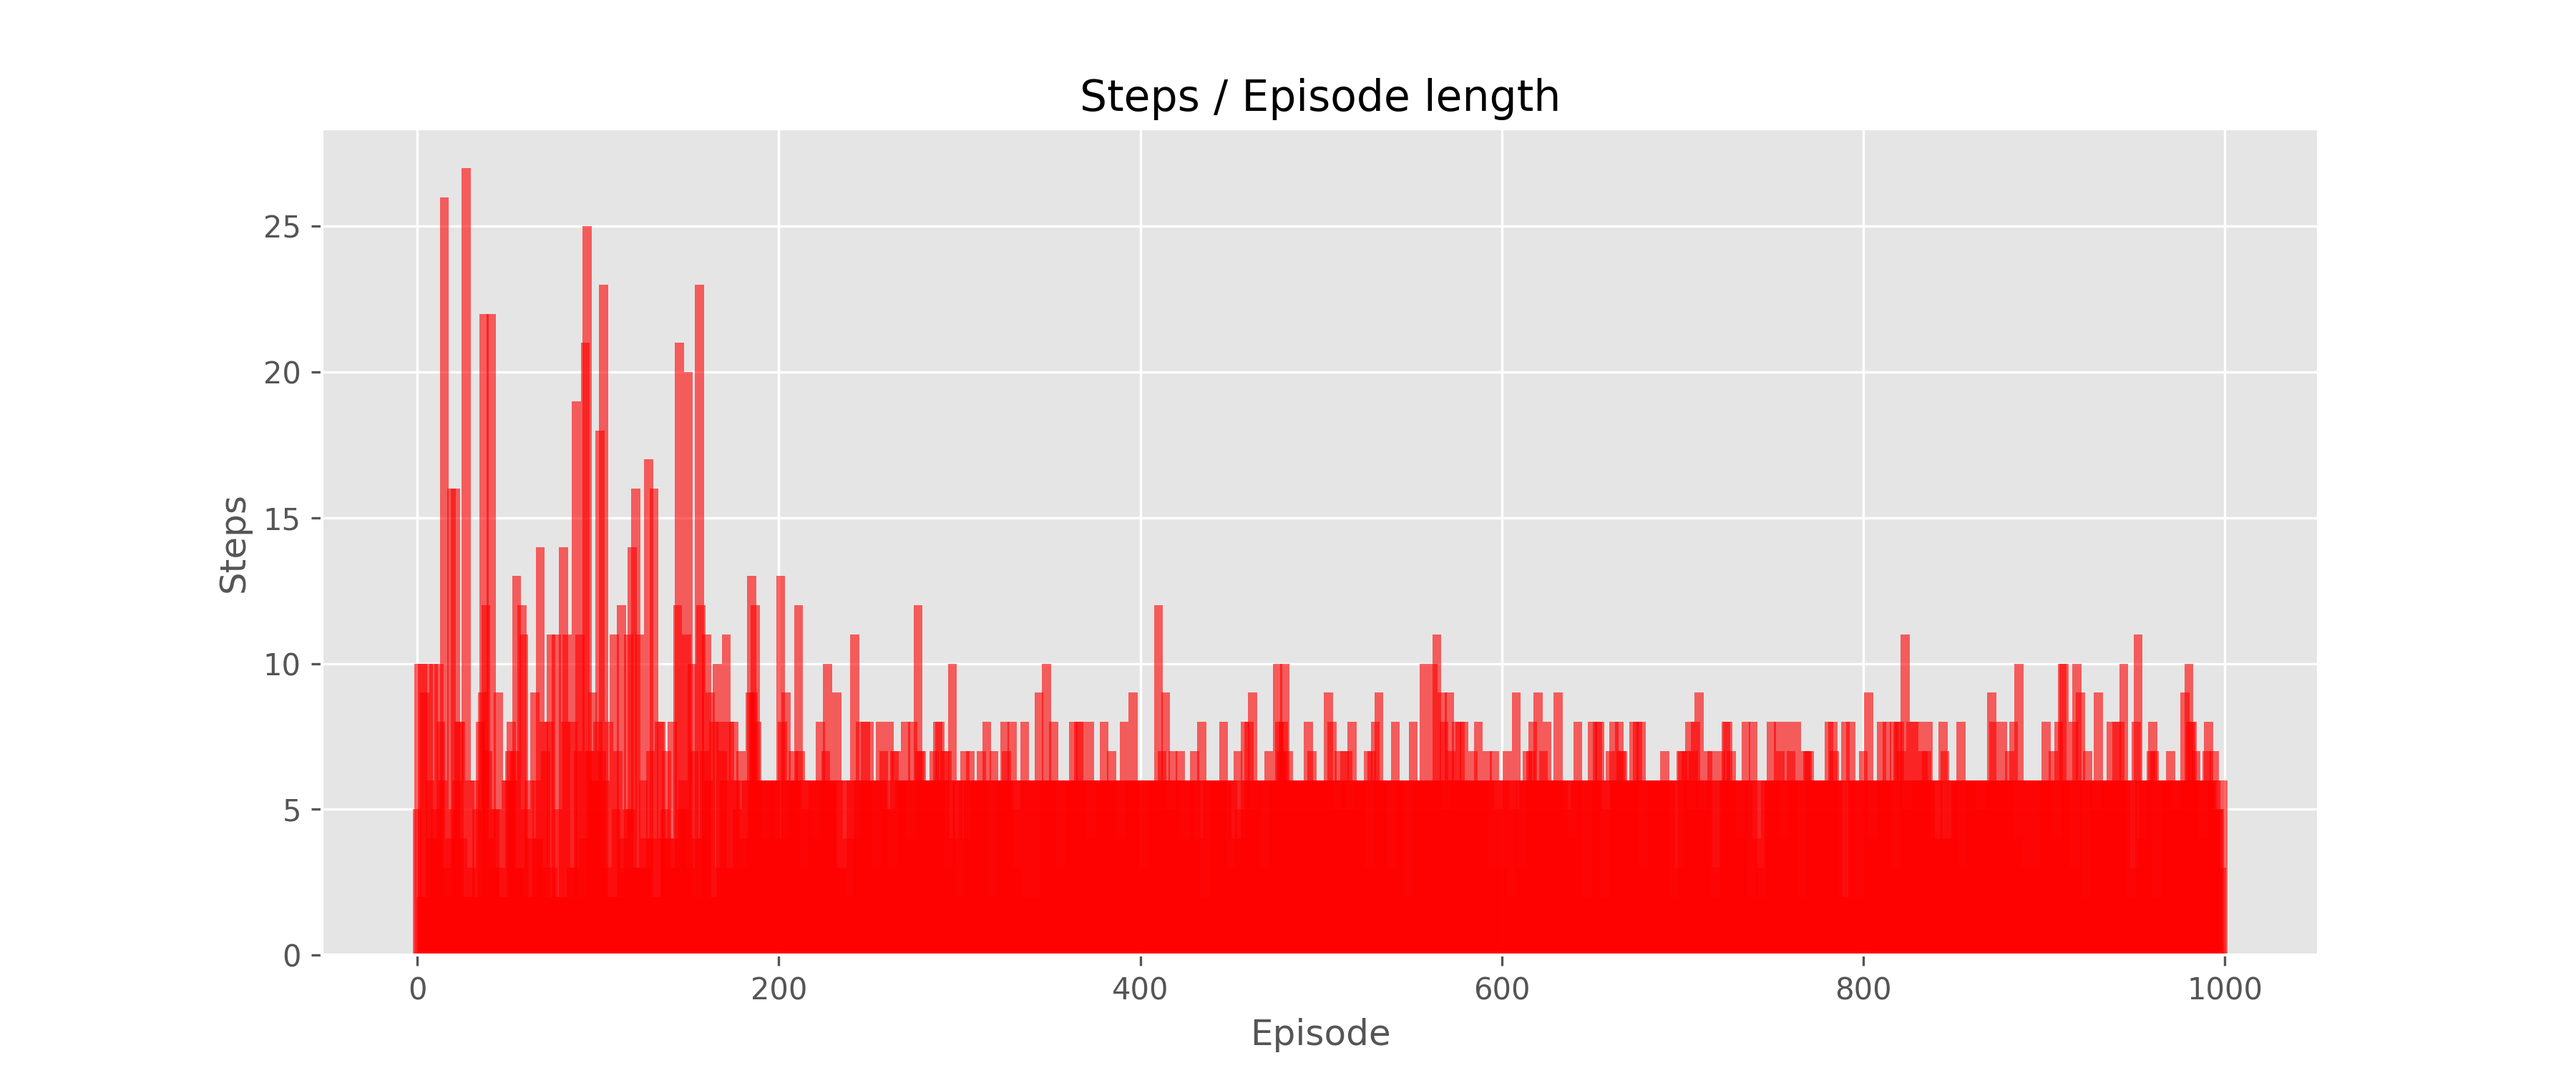
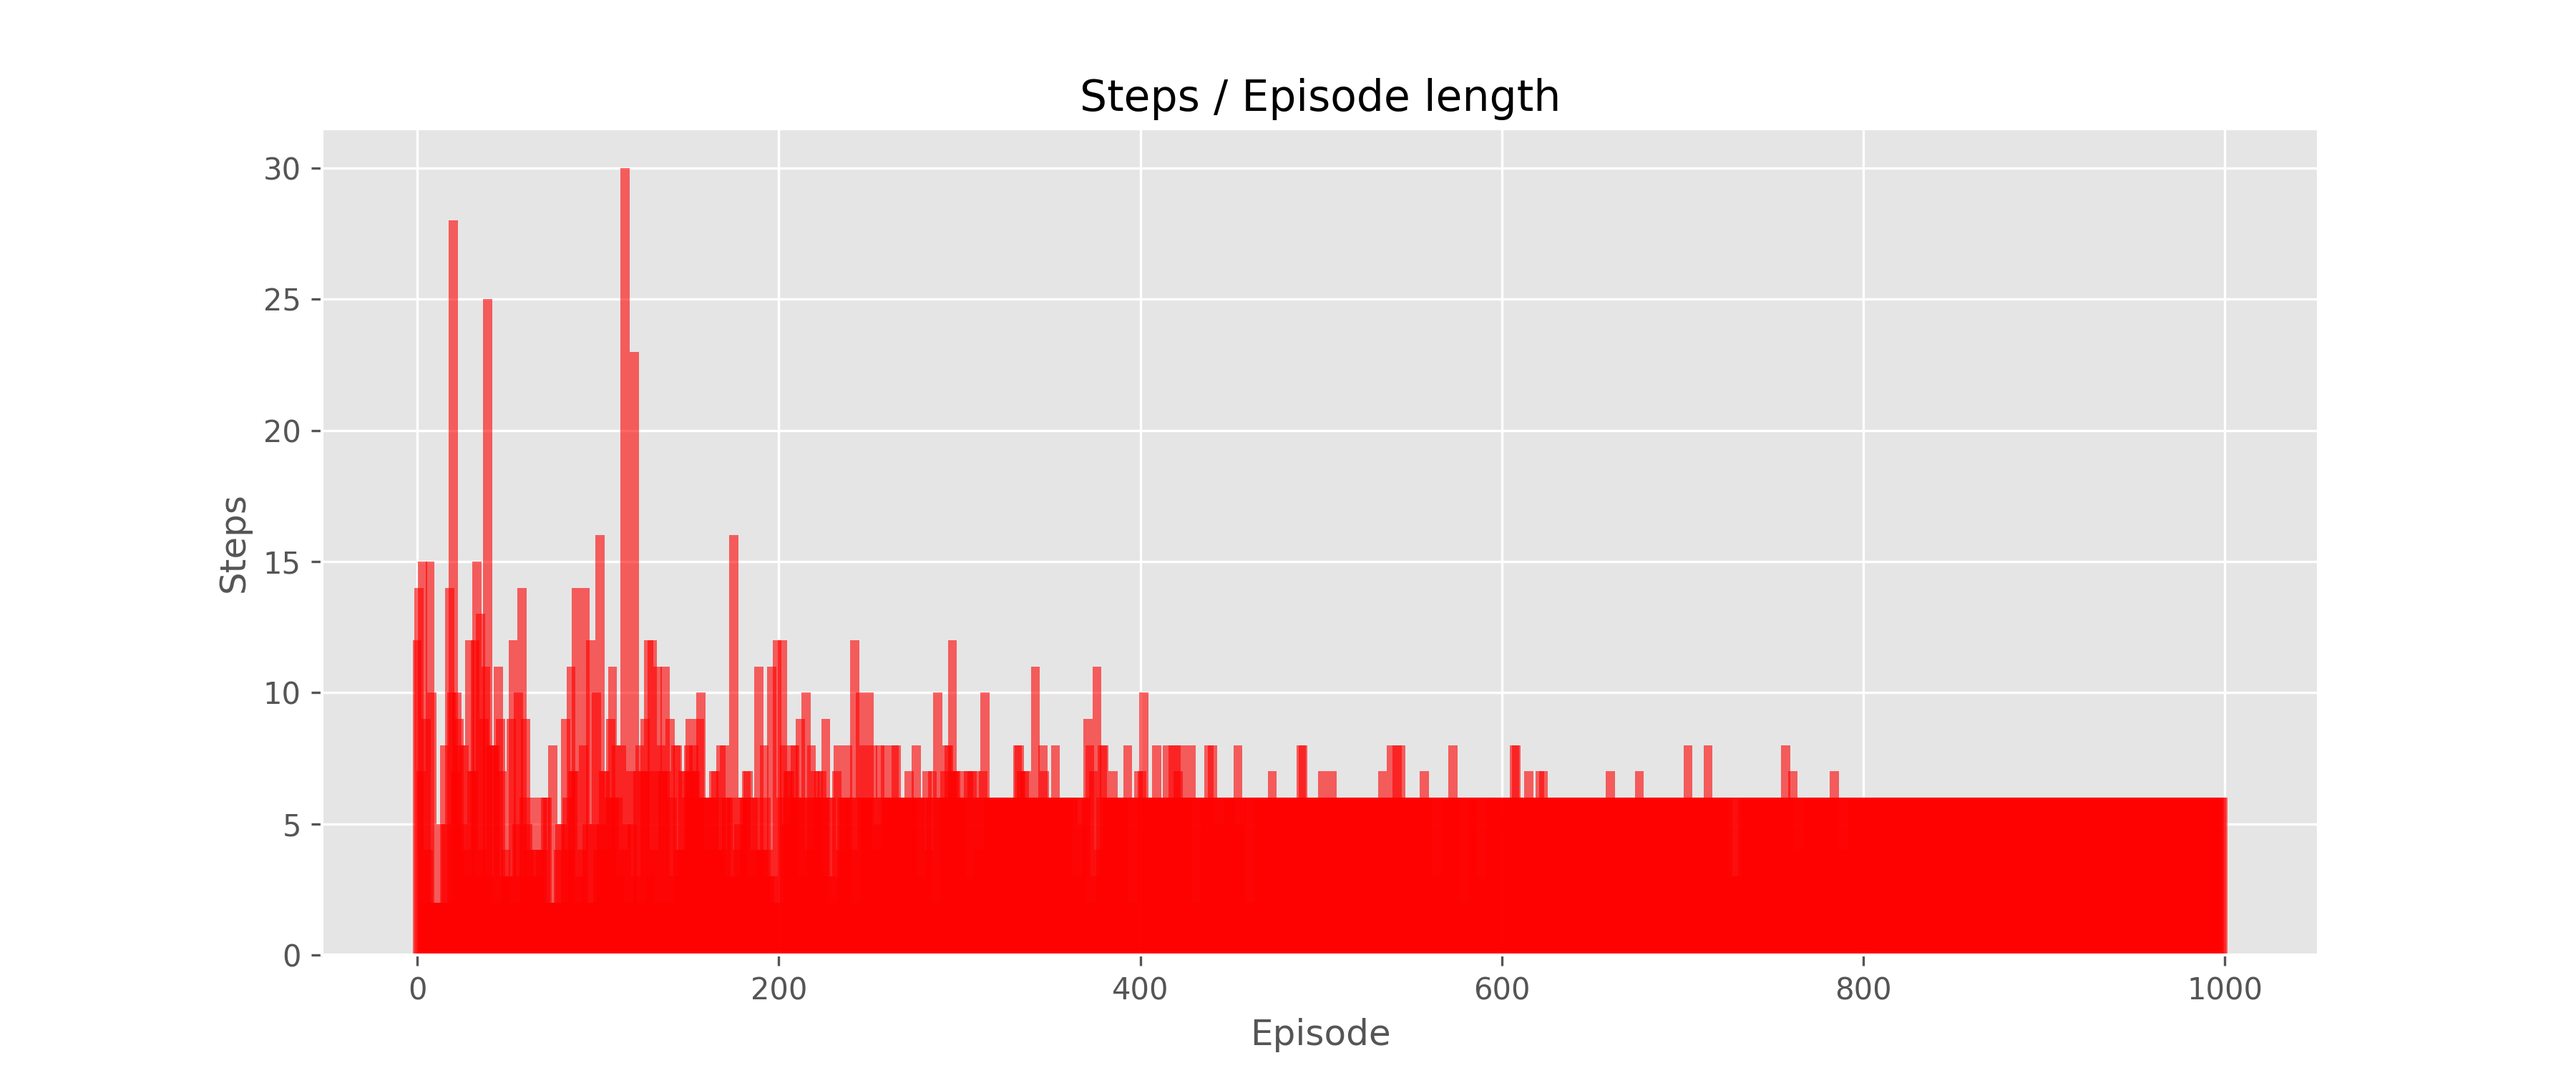
feat: Add the value iteration strategy

Changed region(s): [[0.1556, 0.1533, 0.8711, 0.828], [0.0933, 0.6133, 0.1244, 0.644], [0.0933, 0.3373, 0.1244, 0.368]]

diff --git a/rl09_fl_value_iteration.py b/rl09_fl_value_iteration.py
@@ -1,0 +1,192 @@
+"""
+Stochastic FrozenLake.
+
+Implementation of the value iteration
+"""
+
+import os
+
+import gymnasium as gym
+import matplotlib.pyplot as plt
+import torch
+from gymnasium.envs.registration import register
+
+# Stochastic frozen lake
+register(
+    id="FrozenLakeStochastic-v1",
+    entry_point="gymnasium.envs.toy_text.frozen_lake:FrozenLakeEnv",
+    kwargs={"map_name": "4x4", "is_slippery": True},
+)
+env = gym.make("FrozenLakeStochastic-v1")
+
+OUTPUT_DIR = "./docs/rl09"
+os.makedirs(OUTPUT_DIR, exist_ok=True)
+plt.style.use("ggplot")
+
+
+NUM_EPISODES = 1000
+steps_total = []
+rewards_total = []
+
+number_of_states = env.observation_space.n
+number_of_actions = env.action_space.n
+
+# V values - size 16 (as number of fields[states] in our lake)
+V = torch.zeros([number_of_states])
+
+
+# Hyperparameters
+GAMMA = 0.9
+MAX_ITERATIONS = 1500
+
+
+def next_step_evaluation(state, v_values):
+    """
+    Evaluates the best possible move from a given state using the Bellman expectation equation.
+
+    Calculates the expected value for each possible action from a state by considering
+    the rewards and discounted future values of all potential next states.
+
+    Args:
+        state: The current state (an integer index).
+        v_values: A PyTorch tensor containing the current V-value estimates for all states.
+
+    Returns:
+        A tuple containing:
+        - The maximum expected V-value.
+        - The index of the best action.
+
+    """
+    v_temp = torch.zeros(number_of_actions)
+
+    for action_possible in range(number_of_actions):
+
+        for prob, next_state, reward_possible, _ in env.unwrapped.P[state][
+            action_possible
+        ]:
+            # env.unwrapped.P[state][action_possible] holds the
+            # transition probabilities and rewards for the environment.
+            v_temp[action_possible] += prob * (
+                reward_possible + GAMMA * v_values[next_state]
+            )
+
+    max_value, indice = torch.max(v_temp, 0)
+
+    return max_value, indice
+
+
+def value_iteration():
+    """
+    Performs V-value iteration to find the optimal value function (V-values).
+
+    Iteratively updates the V-value of each state to be the maximum expected return
+    until the V-values converge. This implementation uses a fixed number of
+    iterations.
+
+    Returns:
+        A PyTorch tensor containing the final, optimal V-values for each state.
+    """
+    v_values = torch.zeros(number_of_states)
+
+    for _ in range(MAX_ITERATIONS):
+        # for each step we search for best possible move
+        for state in range(number_of_states):
+            max_value, _ = next_step_evaluation(state, v_values)
+            v_values[state] = max_value.item()
+
+    return v_values
+
+
+# W0621: Redefining name 'v_policy' from outer scope
+def build_policy(v_values):
+    """
+    Builds the optimal policy based on a the converged V-values.
+    The policy are the instructions that state which are best moves from each single state.
+
+    For each state, this build_policy() determines the action that yields the highest
+    expected return according to the provided V-values.
+
+    Args:
+        v_values: A PyTorch tensor containing the optimal V-values for each state.
+
+    Returns:
+        A PyTorch tensor representing the optimal policy, where each index
+        corresponds to a state and its value is the best action to take.
+
+    """
+    v_policy = torch.zeros(number_of_states)  # pylint: disable=redefined-outer-name
+
+    for state in range(number_of_states):
+        _, indice = next_step_evaluation(state, v_values)
+        v_policy[state] = indice.item()
+
+    return v_policy
+
+
+# 2 main steps to build policy for our agent
+v = value_iteration()
+v_policy = build_policy(v)
+
+# v(state): V-value for each state
+# v_policy(state): shows the best action for each state.
+
+for i_episode in range(NUM_EPISODES):
+
+    current_state, _ = env.reset()
+    step = 0  # pylint: disable=invalid-name
+
+    while True:
+
+        step += 1
+
+        action = v_policy[current_state].item()
+
+        new_state, reward, terminated, truncated, info = env.step(action)
+
+        current_state = new_state
+
+        if terminated or truncated:
+            steps_total.append(step)
+            rewards_total.append(reward)
+            break
+
+print(f"V-values: {v}")
+
+# Print statistics
+print(f"\nTraning completed after {NUM_EPISODES} episodes.")
+print("Hyperparameters: \n" f"\t Discount factor: {GAMMA}\n")
+
+N_EPISODES_FOR_STATS = 100
+print(
+    f"Percent of episodes finished successfully: {100*sum(rewards_total) / NUM_EPISODES}%"
+)
+print(
+    f"Percent of episodes finished successfully (last {N_EPISODES_FOR_STATS} episodes): "
+    f"{100*sum(rewards_total[-N_EPISODES_FOR_STATS:]) / N_EPISODES_FOR_STATS}%"
+)
+
+print(f"Average number of steps: {sum(steps_total) / NUM_EPISODES:.2f}")
+print(
+    f"Average number of steps (last 100 episodes): {sum(steps_total[-100:]) / 100:.2f}"
+)
+
+
+plt.figure(figsize=(12, 5))
+plt.title("Rewards per Episode")
+plt.bar(
+    torch.arange(len(rewards_total)), rewards_total, alpha=0.6, color="green", width=5
+)
+plt.xlabel("Episode")
+plt.ylabel("Reward")
+reward_plot_path = os.path.join(OUTPUT_DIR, "rl09_rewards_per_episode.png")
+plt.savefig(reward_plot_path, dpi=300)
+plt.close()
+
+plt.figure(figsize=(12, 5))
+plt.title("Steps / Episode length")
+plt.bar(torch.arange(len(steps_total)), steps_total, alpha=0.6, color="red", width=5)
+plt.xlabel("Episode")
+plt.ylabel("Steps")
+steps_plot_path = os.path.join(OUTPUT_DIR, "rl09_steps_per_episode.png")
+plt.savefig(steps_plot_path, dpi=300)
+plt.close()

diff --git a/rl08_1_fl_e_greedy_exploration_decay.py b/rl08_1_fl_e_greedy_exploration_decay.py
@@ -29,6 +29,7 @@ plt.style.use("ggplot")
 NUM_EPISODES = 1000
 steps_total = []
 rewards_total = []
+epsilon_total = []
 
 # Initialize Q-table
 number_of_states = env.observation_space.n
@@ -40,8 +41,8 @@ Q = torch.zeros([number_of_states, number_of_actions])
 # of the Bellman eq for deterministic environments.
 GAMMA = 0.9
 LEARNING_RATE = 1
-EPSILON_INITIAL = 0.7
-EPSILON_FINAL = 0.1
+EPSILON_INITIAL = 0.9
+EPSILON_FINAL = 0.001
 EPSILON_DECAY = 0.999
 
 epsilon = EPSILON_INITIAL  # pylint: disable=invalid-name
@@ -83,11 +84,13 @@ for i_episode in range(NUM_EPISODES):
         if terminated:
             steps_total.append(step)
             rewards_total.append(reward)
+            epsilon_total.append(epsilon)
             break
 
         if truncated:
             steps_total.append(step)
             rewards_total.append(reward)
+            epsilon_total.append(epsilon)
             break
 
 
@@ -128,8 +131,6 @@ plt.ylabel("Reward")
 reward_plot_path = os.path.join(OUTPUT_DIR, "rl08b_rewards_per_episode_with_decay.png")
 plt.savefig(reward_plot_path, dpi=300)
 plt.close()
-print(f"Saved: {reward_plot_path}")
-
 
 plt.figure(figsize=(12, 5))
 plt.title("Steps / Episode length")
@@ -137,5 +138,16 @@ plt.bar(torch.arange(len(steps_total)), steps_total, alpha=0.6, color="red", wid
 plt.xlabel("Episode")
 plt.ylabel("Steps")
 steps_plot_path = os.path.join(OUTPUT_DIR, "rl08b_steps_per_episode_with_decay.png")
+plt.savefig(steps_plot_path, dpi=300)
+plt.close()
+
+plt.figure(figsize=(12, 5))
+plt.title("Epsilon greedy")
+plt.bar(
+    torch.arange(len(epsilon_total)), epsilon_total, alpha=0.6, color="blue", width=5
+)
+plt.xlabel("Episode")
+plt.ylabel("Epsilon")
+steps_plot_path = os.path.join(OUTPUT_DIR, "rl08b_epsilon_per_episode_with_decay.png")
 plt.savefig(steps_plot_path, dpi=300)
 plt.close()

diff --git a/rl08_0_fl_e_greedy_exploration.py b/rl08_0_fl_e_greedy_exploration.py
@@ -115,8 +115,6 @@ plt.ylabel("Reward")
 reward_plot_path = os.path.join(OUTPUT_DIR, "rl08_rewards_per_episode.png")
 plt.savefig(reward_plot_path, dpi=300)
 plt.close()
-print(f"Saved: {reward_plot_path}")
-
 
 plt.figure(figsize=(12, 5))
 plt.title("Steps / Episode length")

diff --git a/README.md b/README.md
@@ -91,7 +91,7 @@ Q(s, a) = (1 - α)Q(s, a) + α \cdot[r + \gamma \cdot \max_{a'} Q(s', a')]
 $$
 
 where:
-- *** $Q_{t-1}(s, a)$ ***: Old Q-value for the current *s, a* pair.
+- $Q_{t-1}(s, a)$: Old Q-value for the current *s, a* pair.
 
 - ***α***: Learning rate (0<α≤1). Controls balance between learning from new experiences and using experience.
     - α = 0: The agent never learns and its Q-values are never updated.
@@ -139,3 +139,35 @@ The ɛ greedy is varying through the episodes so that the exploration is favoure
             Figure 4: Steps per episode with exploration strategy using adaptative ɛ.
         </figcaption>
     </figure>
+    <figure style="margin: 0;">
+        <img src="https://github.com/MartinezAgullo/rl-exercises-gymnasium/blob/main/docs/rl08/rl08b_epsilon_per_episode_with_decay.png" alt="Steps per episode after learning" style="width: 100%; max-width: 400px; display: block;">
+        <figcaption style="text-align: center; font-size: 0.9em; color: #555;">
+            Figure 5: ɛ per episode using adaptative ɛ.
+        </figcaption>
+    </figure>
+
+### rl09_fl_value_iteration
+Instead of Q-values, the V-values are used.
+
+The V-value at a state *s* for a given policy $\pi$ is:
+$$
+V(s) := \sum_{s'} P_{\pi(s)}(s, s') (R_{\pi(s)}(s, s') + \gamma V(s'))
+$$
+
+It calculates the expected return from state *s* by summing the rewards and discounted future values of all possible next states (*s′*) weighted by their probabilities $P_{\pi(s)}(s, s')$ under policy $\pi$. Here $R_{\pi(s)}(s, s')$ is the inmediate reward received by the agent when trasitoning from *s* to *s'*. The $P_{\pi(s)}(s, s')$ represents the probability of transitioning from state *s* to state *s′*, given that the agent is in state *s* and takes the action specified by its policy $\pi$.
+
+
+
+The optimal policy $\pi(s)$ is given by:
+
+$$
+\pi(s) := \arg \max_{a} \left\{ \sum_{s'} P_{a}(s, s') [R_{a}(s, s') + \gamma V(s')] \right\}
+$$
+
+It states that the best action to take in state *s* is the one that maximizes the expected value of the resulting state, essentially choosing the action that leads to the highest potential reward.
+
+The value iteration algorithm is an iterative method to find the optimal value function by repeatedly updating the value of each  *V(s)* to equal the maximum expected value achievable from that state. This process continues until the values converge to the optimal values.
+
+$$
+V_{i+1}(s) := \max_{a} \left\{ \sum_{s'} P_{a}(s, s') (R_{a}(s, s') + \gamma V_i(s')) \right\}
+$$
